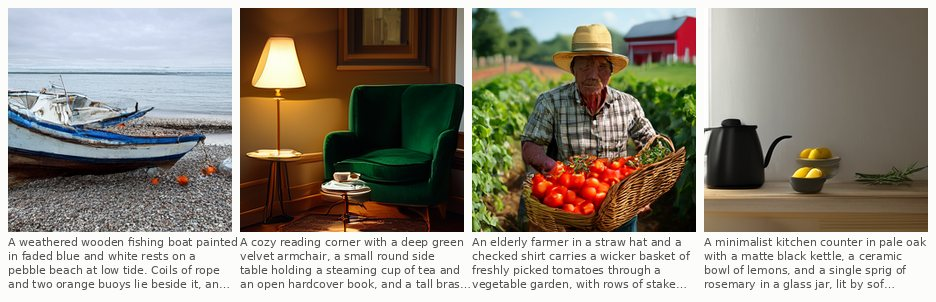
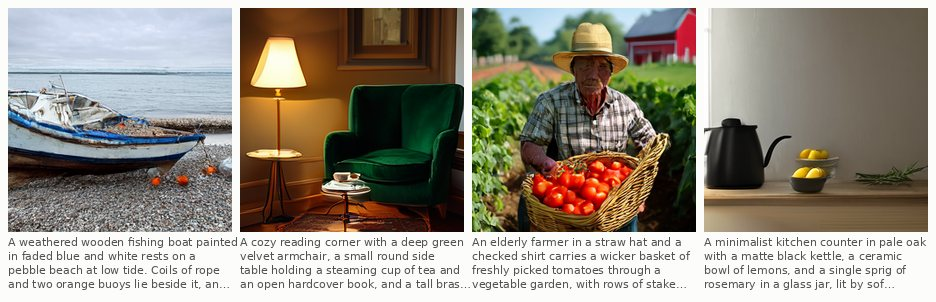
upd

diff --git a/scripts/make_readme_figures.py b/scripts/make_readme_figures.py
@@ -65,12 +65,12 @@ def grid(items, cols, cell_w, out, cap_lines=2, pad=8, title=None):
     canvas.save(out, "JPEG", quality=84, optimize=True); print("wrote", out, canvas.size, f"{os.path.getsize(out)/1e3:.0f} KB", flush=True)
 
 
-def make_images(run, cache, out):
+def make_images(run, cache, out, steps=20, grids_only=False):
     from tinydit.playground import Engine
     from safetensors.torch import load_file
     E = Engine(run, cache)
     dec = lambda u: Image.open(io.BytesIO(base64.b64decode(u.split(",")[1]))).convert("RGB")
-    def gen(prompt, w=256, h=256, steps=20, cfg=4.0, shift=2.8, seed=0):
+    def gen(prompt, w=256, h=256, steps=steps, cfg=4.0, shift=2.8, seed=0):
         return dec(E.generate(prompt, width=w, height=h, steps=steps, cfg=cfg, shift=shift, seed=seed, n_images=1, trajectory=0)["images"][0])
     for name, prompts in SETS.items():
         grid([(gen(p, seed=11 + i), p) for i, p in enumerate(prompts)], 4, 224, os.path.join(out, f"grid_{name}.jpg"), cap_lines=4 if name == "long" else 2)
@@ -78,6 +78,7 @@ def make_images(run, cache, out):
     shapes = [(256, 256), (288, 224), (224, 288), (320, 208), (208, 320), (448, 256)]
     grid([(gen(P, w, h, seed=5), f"{w}x{h}" + ("  (not a training shape)" if (w, h) == (448, 256) else "")) for w, h in shapes],
          6, 150, os.path.join(out, "grid_aspect.jpg"), cap_lines=2, title=P)
+    if grids_only: return
     snaps = [10000, 50000, 100000, 200000, 300000, 400000]
     prog = ["a red tractor parked next to a blue rowing boat on a sandy beach", "three green apples on a white plate next to a black coffee cup",
             "a lighthouse on a rocky cliff during a storm"]
@@ -139,8 +140,9 @@ def make_charts(run, out):
 
 if __name__ == "__main__":
     ap = argparse.ArgumentParser(); ap.add_argument("--run", default="run1"); ap.add_argument("--cache", default="out/cache/run1")
-    ap.add_argument("--out", default="docs"); ap.add_argument("--charts-only", action="store_true"); a = ap.parse_args()
+    ap.add_argument("--out", default="docs"); ap.add_argument("--charts-only", action="store_true")
+    ap.add_argument("--steps", type=int, default=20); ap.add_argument("--grids-only", action="store_true"); a = ap.parse_args()
     os.makedirs(a.out, exist_ok=True)
-    if not a.charts_only: make_images(a.run, a.cache, a.out)
-    make_charts(a.run, a.out)
+    if not a.charts_only: make_images(a.run, a.cache, a.out, a.steps, a.grids_only)
+    if not a.grids_only: make_charts(a.run, a.out)
     print("TOTAL docs size:", round(sum(os.path.getsize(os.path.join(a.out, f)) for f in os.listdir(a.out)) / 1e6, 2), "MB")

diff --git a/scripts/eval_steps.py b/scripts/eval_steps.py
@@ -1,0 +1,41 @@
+"""Metrics of the final EMA weights on the frozen held-out FID set at different sampler settings.
+
+    PYTHONPATH=src .venv/bin/python scripts/eval_steps.py --run run1 --settings 8:2.8 20:2.8 50:2.8 20:1.0
+"""
+import argparse, json, os, sys, time
+sys.path.insert(0, "src")
+import numpy as np, torch
+from tinydit import ae as AE, metrics
+from tinydit.data import BucketCache
+from tinydit.sample import load_model, generate, decode_chunked
+
+ap = argparse.ArgumentParser(); ap.add_argument("--run", default="run1"); ap.add_argument("--cache", default="out/cache/run1")
+ap.add_argument("--config", default="run1"); ap.add_argument("--cfg", type=float, default=4.0)
+ap.add_argument("--settings", nargs="+", default=["20:2.8", "50:2.8"]); a = ap.parse_args()
+out = os.path.join("out", "runs", a.run)
+EP = json.load(open(os.path.join(out, "eval_prompts.json")))
+C = BucketCache(a.cache); lat_ch = AE.SPECS["flux2"]["ch"]
+snap = sorted(f for f in os.listdir(out) if f.startswith("ema_") and f.endswith(".safetensors"))[-1]
+model, _ = load_model(os.path.join(out, snap), lat_ch, a.config); aem = AE.load("flux2", "out/models/flux2")
+null_ctx, null_msk = C.null()
+ref, per_b = [], {}
+for b in C.names:
+    vi = C.val_images(b); vp = [(c, j) for bb, c, j in EP["fid"] if bb == b]
+    per_b[b] = vp; ref += [np.asarray(vi[j]) for _, j in vp if j < len(vi)]
+print(f"{snap}: {sum(len(v) for v in per_b.values())} held-out prompts, {len(ref)} references", flush=True)
+for s in a.settings:
+    steps, shift = int(s.split(":")[0]), float(s.split(":")[1]); t0 = time.time(); gen, txt = [], []
+    for b in C.names:
+        ps = [c for c, _ in per_b[b]]
+        if not ps: continue
+        W, H = C.buckets[b]; ctx, msk = C.text_for(ps)
+        z = generate(model, ctx, msk, null_ctx, null_msk, lat_ch, H // 8, W // 8, steps, a.cfg, 777, shift)
+        gen += list(decode_chunked(aem, z, C.mean, C.std)); txt += ps
+    fid, fdd = metrics.frechet(gen, ref)
+    by = {}
+    for i, im in enumerate(gen): by.setdefault(im.shape, []).append(i)
+    def per_shape(fn): return float(np.mean(sum((fn(np.stack([gen[i] for i in ids]), [txt[i] for i in ids]) for ids in by.values()), [])))
+    rec = dict(steps=steps, shift=shift, fid=round(fid, 2), fd_dino=round(fdd, 1), clip=round(per_shape(metrics.clip_score), 4),
+               pickscore=round(per_shape(metrics.pickscore), 3), hpsv2=round(per_shape(metrics.hpsv2), 4), secs=int(time.time() - t0))
+    print("RESULT", json.dumps(rec), flush=True)
+metrics.unload()

diff --git a/README.md b/README.md
@@ -9,6 +9,100 @@ Code, prompts, notes and the Docker recipe are in git. Everything heavy (weights
 lives under `out/` and is ignored, so a clone plus the commands below reproduces the whole thing.
 The evidence behind each decision, with sources, is in `notes/`.
 
+## Results (run 1, 2 → 6 September 2026)
+
+400k steps, 102M samples (24 epochs of 4.2M images), 3.5 days on one GPU. Every image below comes from the
+final EMA weights with fixed seeds and no cherry-picking within a set; the prompt grids use 50 Euler steps,
+CFG 4, shift 2.8 (`scripts/make_readme_figures.py --steps 50`), the metrics are measured with the 20-step
+training-time sampler. 50 steps versus 20 is worth 0.4 FID and nothing on the preference scores (table below).
+
+**Objects and animals.** Short COCO-style prompts.
+
+![objects](docs/grid_objects.jpg)
+
+**Scenes.**
+
+![scenes](docs/grid_scenes.jpg)
+
+**Composition: colours, counts, relations.** Most hold; "two red apples and one green pear" comes out as
+two-and-two, the classic small-model counting slip.
+
+![composition](docs/grid_composition.jpg)
+
+**Lighting and style words.**
+
+![style](docs/grid_style.jpg)
+
+**Long captions** in the style of the training data (60–90 words, up to 128 T5 tokens).
+
+![long captions](docs/grid_long.jpg)
+
+**Aspect ratios.** One prompt and seed in the five training shapes, plus a 448×256 frame the model never
+saw: RoPE positions generalise to it.
+
+![aspect ratios](docs/grid_aspect.jpg)
+
+**Where it fails**, honestly: readable text, close faces, dense crowds, exact counts above three, clock
+hands, stacked geometry. These are the usual limits of a 209M model at 256² and the natural targets for
+the RL stage or a larger run.
+
+![failure cases](docs/grid_failures.jpg)
+
+### Dynamics
+
+Held-out metrics on the frozen prompt set every 10k steps; the vertical line at 300k marks the start of
+the learning-rate decay (dashboard tooltips explain each metric):
+
+![metrics](docs/metrics.png)
+
+| step | FID | FD-DINOv2 | object acc. | CLIP held-out / novel | PickScore held-out / novel | HPSv2.1 held-out / novel |
+|---|---|---|---|---|---|---|
+| 10k | 33.7 | 570 | 65% | 0.300 / 0.333 | 19.5 / 20.2 | 0.199 / 0.213 |
+| 50k | 29.1 | 324 | 83% | 0.322 / 0.349 | 20.3 / 21.6 | 0.231 / 0.251 |
+| 100k | 28.1 | 274 | 88% | 0.323 / 0.359 | 20.6 / 22.0 | 0.238 / 0.264 |
+| 200k | 27.5 | 244 | 90% | 0.319 / 0.359 | 20.8 / 22.3 | 0.248 / 0.272 |
+| 300k | 27.1 | 229 | 92% | 0.322 / 0.361 | 20.8 / 22.5 | 0.251 / 0.276 |
+| 400k | 27.0 | 218 | 90% | 0.322 / 0.361 | 20.9 / 22.6 | 0.254 / 0.277 |
+
+- Layout and object identity are learned in the first 10k steps (1.3M samples); detail and realism
+  (FD-DINOv2, the preference scores) keep improving to the end, while FID and object accuracy saturate
+  around 300k. The linear learning-rate decay over the last 100k steps gave a further 5% on FD-DINOv2
+  and the highest preference scores of the run.
+- The flow-matching loss is a poor progress signal: most of it is the irreducible variance of the
+  velocity target at high noise. It fell only from 0.805 to 0.754 while the images changed completely.
+  Training and held-out loss stayed equal throughout, so nothing was memorised (24 epochs over 4.2M images).
+- Novel hand-written prompts score higher than held-out captions on every preference metric because
+  they are short and concrete; long training-style captions are harder to satisfy in full.
+
+**The same prompt over training**, EMA snapshots, same seed:
+
+![progress](docs/progress.jpg)
+
+**How one sample happens.** The shifted schedule spends 15 of 20 steps below t = 0.5; the model's
+prediction of the final image (bottom row) is already the right layout after 3 steps and only sharpens
+afterwards, which is why 8 steps still work and 50 add little.
+
+![trajectory](docs/trajectory.jpg)
+
+**Inference settings**, same prompt and seed. Guidance matters most: CFG 1 loses the prompt, CFG 7
+over-saturates. Measured on the 2,456 held-out prompts with the final weights:
+
+| sampler | FID | FD-DINOv2 | PickScore | HPSv2.1 | time per image |
+|---|---|---|---|---|---|
+| 8 steps, shift 2.8 | 28.4 | 234 | 20.81 | 0.243 | 0.4× |
+| 20 steps, shift 2.8 (training setting, used for all metrics) | 27.0 | 218 | 20.84 | 0.247 | 1× |
+| 50 steps, shift 2.8 (used for the figures) | 26.6 | 216 | 20.82 | 0.247 | 2.5× |
+| 20 steps, no shift | 27.3 | 228 | 20.76 | 0.243 | 1× |
+
+The shift the model was trained with is worth more than doubling the step count; beyond 20 steps the
+returns are small, which the trajectory figure above explains.
+
+![sampling settings](docs/grid_sampling.jpg)
+
+Final validation loss 0.754 (train/held-out gap zero throughout). Weights: `out/runs/run1/ema_0400000.safetensors`
+(bf16 EMA, 418 MB) plus 39 earlier EMA snapshots every 10k steps and the fp32 resume checkpoint. The
+playground (`tinydit.playground`) serves these weights for interactive prompts, trajectories and attention maps.
+
 ## Model
 
 | piece | what | trained |
@@ -52,89 +146,6 @@ loss = mse(v, z−e) + 1.0·(1 − cos(v, z−e)) + 0.5·dispersive(block-5 feat
 Measured on an RTX PRO 6000 Blackwell (300 W): the real run does 0.76 s/step at batch 256 (338 img/s,
 including live T5 encoding and the extra losses), so 400k steps take ~3.5 days; a concurrent ingest
 sharing the GPU halves that rate (`notes/2026-09-02_benchmarks.md`).
-
-### Run 1 result (2 → 6 September 2026)
-
-400k steps, 102M samples (24 epochs of 4.2M images), 3.5 days on one GPU. Everything below is generated
-by the final EMA weights with the training-time sampler (20 Euler steps, CFG 4, shift 2.8), fixed seeds,
-no cherry-picking within a set (`scripts/make_readme_figures.py` regenerates all of it).
-
-**Objects and animals.** Short COCO-style prompts.
-
-![objects](docs/grid_objects.jpg)
-
-**Scenes.**
-
-![scenes](docs/grid_scenes.jpg)
-
-**Composition: colours, counts, relations.** Most hold; "two red apples and one green pear" comes out as
-two-and-two, the classic small-model counting slip.
-
-![composition](docs/grid_composition.jpg)
-
-**Lighting and style words.**
-
-![style](docs/grid_style.jpg)
-
-**Long captions** in the style of the training data (60–90 words, up to 128 T5 tokens).
-
-![long captions](docs/grid_long.jpg)
-
-**Aspect ratios.** One prompt and seed in the five training shapes, plus a 448×256 frame the model never
-saw: RoPE positions generalise to it.
-
-![aspect ratios](docs/grid_aspect.jpg)
-
-**Where it fails**, honestly: readable text, close faces, dense crowds, exact counts above three, clock
-hands, stacked geometry. These are the usual limits of a 209M model at 256² and the natural targets for
-the RL stage or a larger run.
-
-![failure cases](docs/grid_failures.jpg)
-
-#### Dynamics
-
-Held-out metrics on the frozen prompt set every 10k steps; the vertical line at 300k marks the start of
-the learning-rate decay (dashboard tooltips explain each metric):
-
-![metrics](docs/metrics.png)
-
-| step | FID | FD-DINOv2 | object acc. | CLIP held-out / novel | PickScore held-out / novel | HPSv2.1 held-out / novel |
-|---|---|---|---|---|---|---|
-| 10k | 33.7 | 570 | 65% | 0.300 / 0.333 | 19.5 / 20.2 | 0.199 / 0.213 |
-| 50k | 29.1 | 324 | 83% | 0.322 / 0.349 | 20.3 / 21.6 | 0.231 / 0.251 |
-| 100k | 28.1 | 274 | 88% | 0.323 / 0.359 | 20.6 / 22.0 | 0.238 / 0.264 |
-| 200k | 27.5 | 244 | 90% | 0.319 / 0.359 | 20.8 / 22.3 | 0.248 / 0.272 |
-| 300k | 27.1 | 229 | 92% | 0.322 / 0.361 | 20.8 / 22.5 | 0.251 / 0.276 |
-| 400k | 27.0 | 218 | 90% | 0.322 / 0.361 | 20.9 / 22.6 | 0.254 / 0.277 |
-
-- Layout and object identity are learned in the first 10k steps (1.3M samples); detail and realism
-  (FD-DINOv2, the preference scores) keep improving to the end, while FID and object accuracy saturate
-  around 300k. The linear learning-rate decay over the last 100k steps gave a further 5% on FD-DINOv2
-  and the highest preference scores of the run.
-- The flow-matching loss is a poor progress signal: most of it is the irreducible variance of the
-  velocity target at high noise. It fell only from 0.805 to 0.754 while the images changed completely.
-  Training and held-out loss stayed equal throughout, so nothing was memorised (24 epochs over 4.2M images).
-- Novel hand-written prompts score higher than held-out captions on every preference metric because
-  they are short and concrete; long training-style captions are harder to satisfy in full.
-
-**The same prompt over training**, EMA snapshots, same seed:
-
-![progress](docs/progress.jpg)
-
-**How one sample happens.** The shifted schedule spends 15 of 20 steps below t = 0.5; the model's
-prediction of the final image (bottom row) is already the right layout after 3 steps and only sharpens
-afterwards, which is why 8 steps still work and 50 add little.
-
-![trajectory](docs/trajectory.jpg)
-
-**Inference settings**, same prompt and seed. The shift the model was trained with helps but is not
-critical at 20 steps; guidance is: CFG 1 loses the prompt, CFG 7 over-saturates.
-
-![sampling settings](docs/grid_sampling.jpg)
-
-Final validation loss 0.754 (train/held-out gap zero throughout). Weights: `out/runs/run1/ema_0400000.safetensors`
-(bf16 EMA, 418 MB) plus 39 earlier EMA snapshots every 10k steps and the fp32 resume checkpoint. The
-playground (`tinydit.playground`) serves these weights for interactive prompts, trajectories and attention maps.
 
 ## Data
 

diff --git a/notes/2026-09-02_benchmarks.md b/notes/2026-09-02_benchmarks.md
@@ -30,3 +30,12 @@ At a 0.43 s compiled step, 100 ms is 23% → encode long and short captions as s
 `run1` config, bs 256, compiled, live T5, cos+dispersive losses: **0.758 s/step = 338 img/s** with the GPU to itself;
 1.47 s/step while the pexels2 ingest (FLUX.2 AE encode, 14–56% SM) shared the GPU. Validation at step 500 with the compiled
 model triggered 5 extra graph compilations (bs 128 per bucket, ~9 min stall) → val now runs the eager model.
+
+
+## Sampler settings on the final weights (2026-09-07, `scripts/eval_steps.py`, 2,456 held-out prompts)
+| steps | shift | FID | FD-DINOv2 | CLIP | PickScore | HPSv2.1 | s/2456 imgs |
+|---|---|---|---|---|---|---|---|
+| 8 | 2.8 | 28.4 | 234.2 | 0.330 | 20.81 | 0.243 | 115 |
+| 20 | 2.8 | 27.0 | 218.4 | 0.330 | 20.84 | 0.247 | 184 |
+| 50 | 2.8 | 26.6 | 216.1 | 0.330 | 20.82 | 0.247 | 374 |
+| 20 | 1.0 | 27.3 | 228.2 | 0.330 | 20.76 | 0.243 | 184 |
